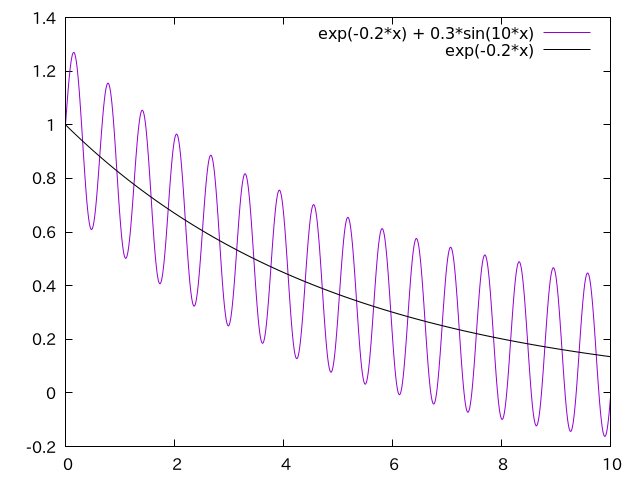
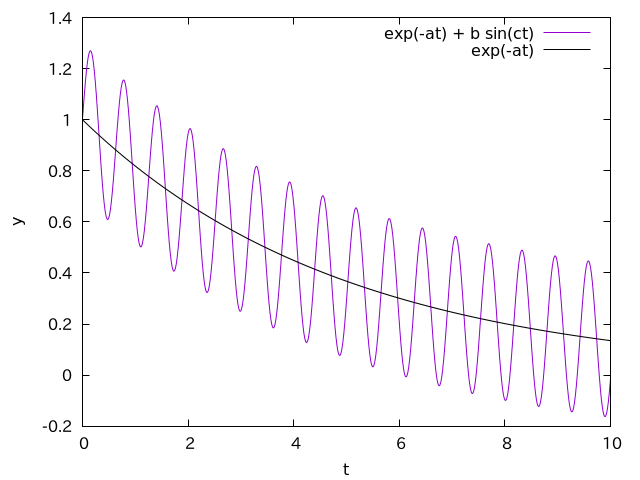
updates figures

diff --git a/error_bar/exp3.rb b/error_bar/exp3.rb
@@ -1,5 +1,6 @@
 10.times do |i|
   x = i + 1
   y = Math.exp(-0.2*x) + 0.3*Math.sin(10.0*x)
-  puts "#{x} #{y}"
+  r = Math.exp(-0.2*x) + 0.6*(rand - 0.5)
+  puts "#{x} #{y} #{r}"
 end

diff --git a/error_bar/README.md b/error_bar/README.md
@@ -156,9 +156,25 @@ $$
 
 という形の系を考えましょう。
 
-右辺第二項が振動項です。$\Delta$は位相で、「一回の観測の間は一定だが、観測毎に異なる」ようなランダムな値とします。
+右辺第二項が振動項です。$\Delta$は位相で、「一回の観測の間は一定だが、観測毎に異なる」ようなランダムな値とします。第三項の$\varepsilon$は観測誤差で、観測のたびに独立なノイズがのるものとします。
 
-第三項の$\varepsilon$は観測誤差で、観測のたびに独立なノイズがのるものとします。
+グラフにするとこんな感じになります(ノイズを含まない場合)。
+
+![exp.png](exp.png)
+
+平均としては指数関数的減衰ですが、それに正弦波が乗っています。
+
+「一回の観測の間は一定だが、観測の度に異なる位相」というのは、グラフにするとこんな感じです。
+
+![exp2.png](exp2.png)
+
+一回目の実験Exp. 1と、二回目の実験Exp. 2では、位相がずれています。振動数は同じなので、何度も観測して平均すると、平均値である指数関数減衰(黒線)に近づいていくことが期待されます。
+
+このグラフを見たら「指数関数に振動が乗っている」ことがすぐにわかりますが、観測点の間隔が広い場合、これが振動なのかノイズなのか区別をつけることが難しくなります。例えば、先ほどのグラフ(紫の線)を間隔1でプロットしたものがこちらです。
+
+![exp3.png](exp3.png)
+
+このグラフを見て「ノイズが乗っている」のか「振動が乗っている」のかを判断することは難しいでしょう。しかし、エラーバーをつけてみるとそれがわかる(少なくとも何かおかしなことが起きていることがわかる)場合があります。
 
 この振動項の有無がエラーバーに与える影響を見るスクリプトはこんな感じでしょうか。
 
